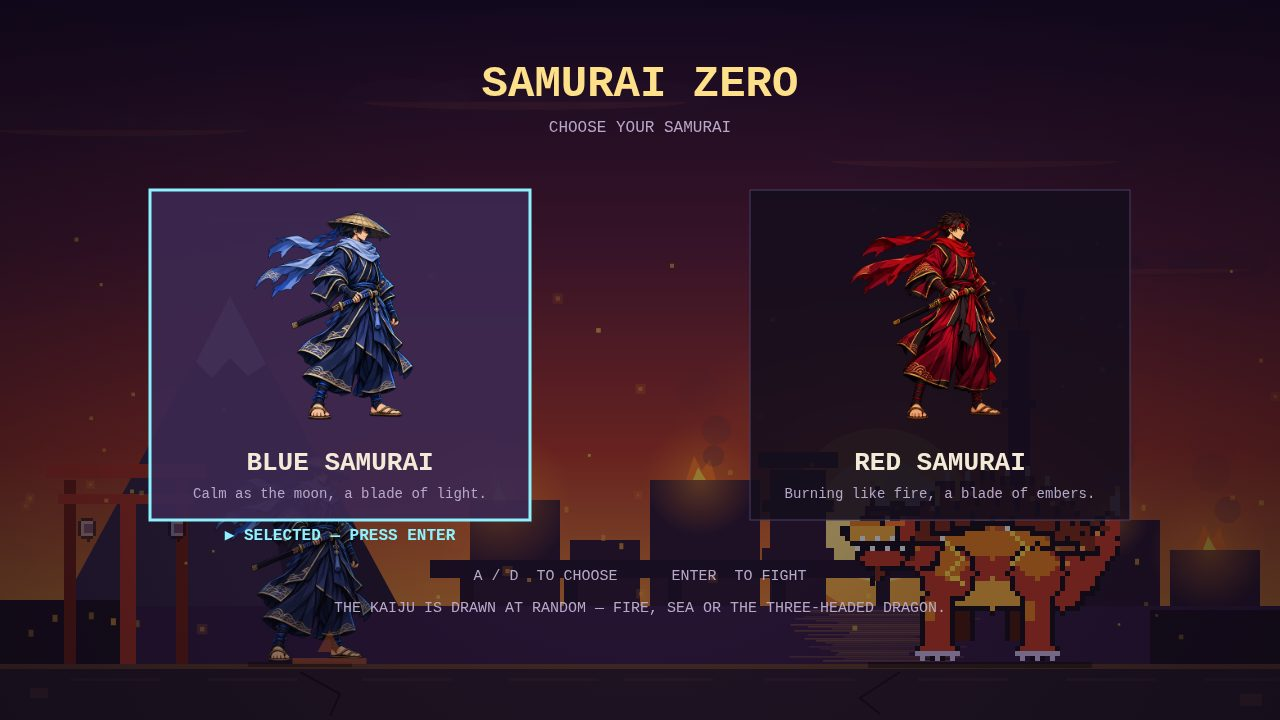
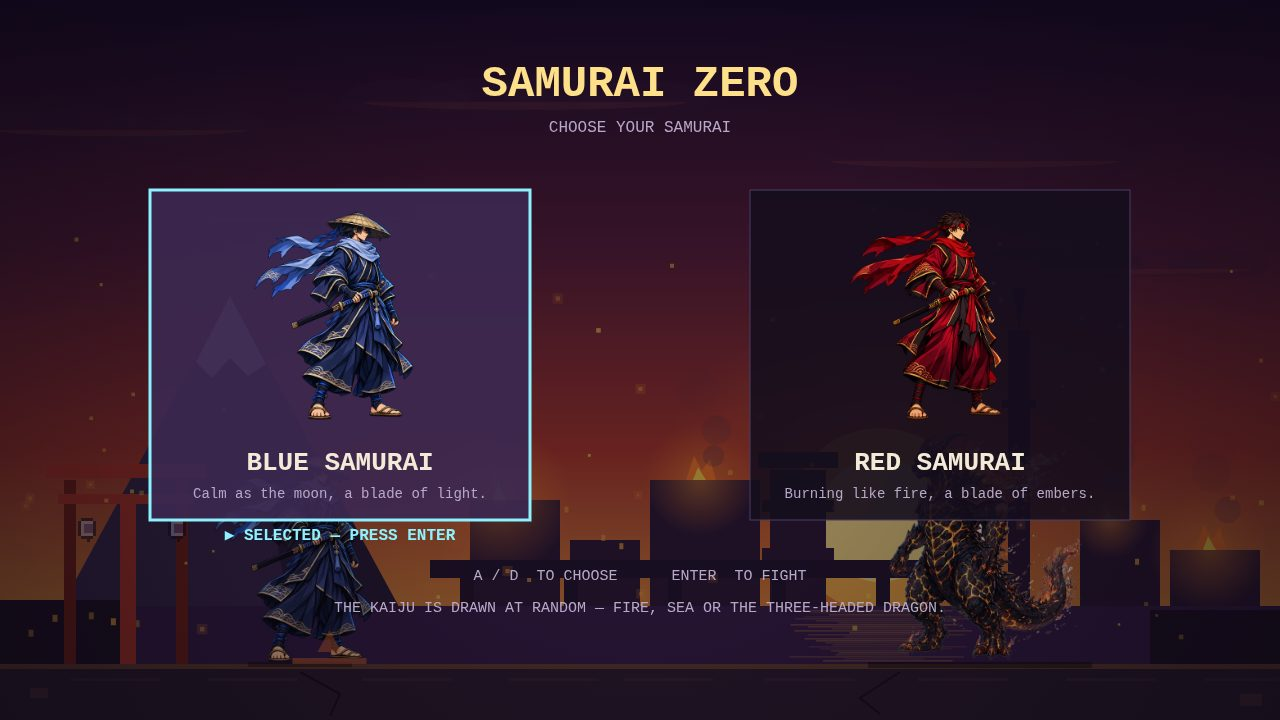
Raster kaiju: replace pixel-art bosses with generated anime art
- Generated 3 kaiju PNGs (464x512, RGBA, white background removed via
  connected-component cutout): KAGUTSUCHI fire, UMIBOZU sea, SANRYU dragon,
  in the same anime/ukiyo-e style as the GPT samurai art
- render.js: drawRaiju uses the raster kaiju (height 230, boss-sized) with
  the pixel sprite as fallback; HUD kaiju portrait uses the raster too
- assets.js: loads the 3 kaiju files; README documents them
- Screenshots re-taken; determinism byte-identical; balance unchanged
  (art only, no rule changes)

Changed region(s): [[0.6562, 0.7028, 0.875, 0.9167]]

diff --git a/game/src/render.js b/game/src/render.js
@@ -401,20 +401,31 @@ export function createRenderer(canvas, assets) {
   function drawRaiju(state, elapsed) {
     const k = state.raiju;
     if (state.over && state.won) return; // felled: the storm is gone.
-    // One connected silhouette, 280x200 at scale 5. The beast rears (lifts)
-    // during the telegraph and drops on the stomp; the maw opens to strike.
-    const s = 5;
+    // The beast rears (lifts) during the telegraph and drops on the stomp.
     const rear = k.headRear * 28;
     const drop = k.bodyDrop * 18;
     const bob = Math.sin(elapsed * 2.2) * 3;
-    const set = SPRITES.raiju[state.kaiju || 'fire'] || SPRITES.raiju.fire;
-    const frame = (k.state === 'telegraph' && (k.attack === 'swipe' || k.attack === 'leap')) || k.state === 'recover'
-      ? set.open
-      : set.closed;
-    ctx.save();
-    if (k.flash > 0) ctx.filter = 'brightness(1.7) saturate(0.6)';
-    drawPixelSprite(ctx, frame, k.x, FIELD.groundY + drop - rear + bob, s);
-    ctx.restore();
+    const bottomY = FIELD.groundY + drop - rear + bob;
+    // The raster kaiju when it loaded, the code-drawn pixel sprite
+    // otherwise. The raster is drawn taller than the hero (it is a boss);
+    // the pixel sprite keeps its old 280x200 frame.
+    const kaijuKey = { fire: 'kaijuFire', sea: 'kaijuSea', dragon: 'kaijuDragon' }[state.kaiju || 'fire'];
+    const kaijuImg = assets && assets[kaijuKey];
+    if (kaijuImg) {
+      drawRaster(kaijuImg, k.x, bottomY, 230, {
+        filter: k.flash > 0 ? 'brightness(1.7) saturate(0.6)' : '',
+      });
+    } else {
+      const s = 5;
+      const set = SPRITES.raiju[state.kaiju || 'fire'] || SPRITES.raiju.fire;
+      const frame = (k.state === 'telegraph' && (k.attack === 'swipe' || k.attack === 'leap')) || k.state === 'recover'
+        ? set.open
+        : set.closed;
+      ctx.save();
+      if (k.flash > 0) ctx.filter = 'brightness(1.7) saturate(0.6)';
+      drawPixelSprite(ctx, frame, k.x, bottomY, s);
+      ctx.restore();
+    }
     // Phase 3 aura: crackling light around the beast, in its own colour.
     if (k.phase === 3) {
       ctx.globalAlpha = 0.25 + 0.2 * Math.sin(elapsed * 9);
@@ -681,10 +692,16 @@ export function createRenderer(canvas, assets) {
       ctx.fillRect(FIELD.width / 2 - barW / 2, 100, barW * Math.max(0, state.comboTimer / SCORE.comboWindow), 4);
     }
     ctx.textAlign = 'left';
-    // Kaiju portrait + HP + phase (top-right). The portrait matches the
-    // drawn kaiju type (fire / sea / dragon).
-    const kaiPortrait = SPRITES.portraits.kaiju[state.kaiju || 'fire'] || SPRITES.portraits.kaiju.fire;
-    drawPixelSpriteAt(ctx, kaiPortrait, FIELD.width - 72, 12, 3);
+    // Kaiju portrait + HP + phase (top-right). The raster kaiju when it
+    // loaded, the code-drawn portrait otherwise.
+    const kaijuKey = { fire: 'kaijuFire', sea: 'kaijuSea', dragon: 'kaijuDragon' }[state.kaiju || 'fire'];
+    const kaijuImg = assets && assets[kaijuKey];
+    if (kaijuImg) {
+      drawRaster(kaijuImg, FIELD.width - 48, 60, 48);
+    } else {
+      const kaiPortrait = SPRITES.portraits.kaiju[state.kaiju || 'fire'] || SPRITES.portraits.kaiju.fire;
+      drawPixelSpriteAt(ctx, kaiPortrait, FIELD.width - 72, 12, 3);
+    }
     ctx.textAlign = 'right';
     ctx.font = `bold 15px ${FONT}`;
     ctx.fillStyle = PALETTE.text;

diff --git a/game/src/assets.js b/game/src/assets.js
@@ -1,10 +1,11 @@
 // Raster art assets: the two GPT-generated samurai (blue AO, red AKA),
-// their HUD portraits, and the four attack-effect sheets (slash arc,
-// fireball, lightning, dash). All live under game/assets/, so they pass the
-// kit's references gate (files inside game/ only, no network). Each entry is
-// an HTMLImageElement, or null when the file failed to load — the renderer
-// falls back to the code-drawn pixel sprites in that case, so the game
-// never depends on an asset being present.
+// their HUD portraits, the four attack-effect sheets (slash arc,
+// fireball, lightning, dash), and the three generated kaiju (fire
+// KAGUTSUCHI, sea UMIBOZU, dragon SANRYU). All live under game/assets/,
+// so they pass the kit's references gate (files inside game/ only, no
+// network). Each entry is an HTMLImageElement, or null when the file
+// failed to load — the renderer falls back to the code-drawn pixel
+// sprites in that case, so the game never depends on an asset being present.
 const FILES = {
   samuraiBlue: 'assets/samurai-blue.png',
   samuraiRed: 'assets/samurai-red.png',
@@ -14,6 +15,9 @@ const FILES = {
   fxFireball: 'assets/fx-fireball.png',
   fxLightning: 'assets/fx-lightning.png',
   fxDash: 'assets/fx-dash.png',
+  kaijuFire: 'assets/kaiju-fire.png',
+  kaijuSea: 'assets/kaiju-sea.png',
+  kaijuDragon: 'assets/kaiju-dragon.png',
 };
 
 const TIMEOUT_MS = 5000;

diff --git a/README.md b/README.md
@@ -8,9 +8,10 @@ A lone samurai — a ronin with nothing left to lose — duels **a kaiju**, in a
 dusk. Three minutes on the clock, three boss phases, one blade. Named for the moment after ruin, when a fighter starts from zero.
 
 A make.fun **best-game-01** entry. The game is plain static files — no
-library, no network request. The two samurai and the four attack effects are
-raster art in `game/assets/`; the kaiju, the town and the sky are drawn in
-code; every sound is synthesised with Web Audio.
+library, no network request. The two samurai, the three kaiju and the four
+attack effects are raster art in `game/assets/`; the town and the sky are
+drawn in code; every sound is synthesised with Web Audio. If a raster asset
+fails to load, the game falls back to the code-drawn pixel sprites.
 
 ## Choose your samurai — the kaiju is drawn at random
 
@@ -62,8 +63,10 @@ node serve.ts
 ```
 game/
   index.html        the page: a full-screen canvas
-  assets/           raster art: the two samurai, their portraits, the four
-                    attack effects (slash arc, fireball, lightning, dash)
+  assets/           raster art: the two samurai, their portraits, the three
+                    kaiju (fire KAGUTSUCHI, sea UMIBOZU, dragon SANRYU),
+                    the four attack effects (slash arc, fireball, lightning,
+                    dash); all PNG with transparency, white background removed
   src/
     config.js       every tuning number and colour
     random.js       one seeded generator (SplitMix64) for all gameplay chance
